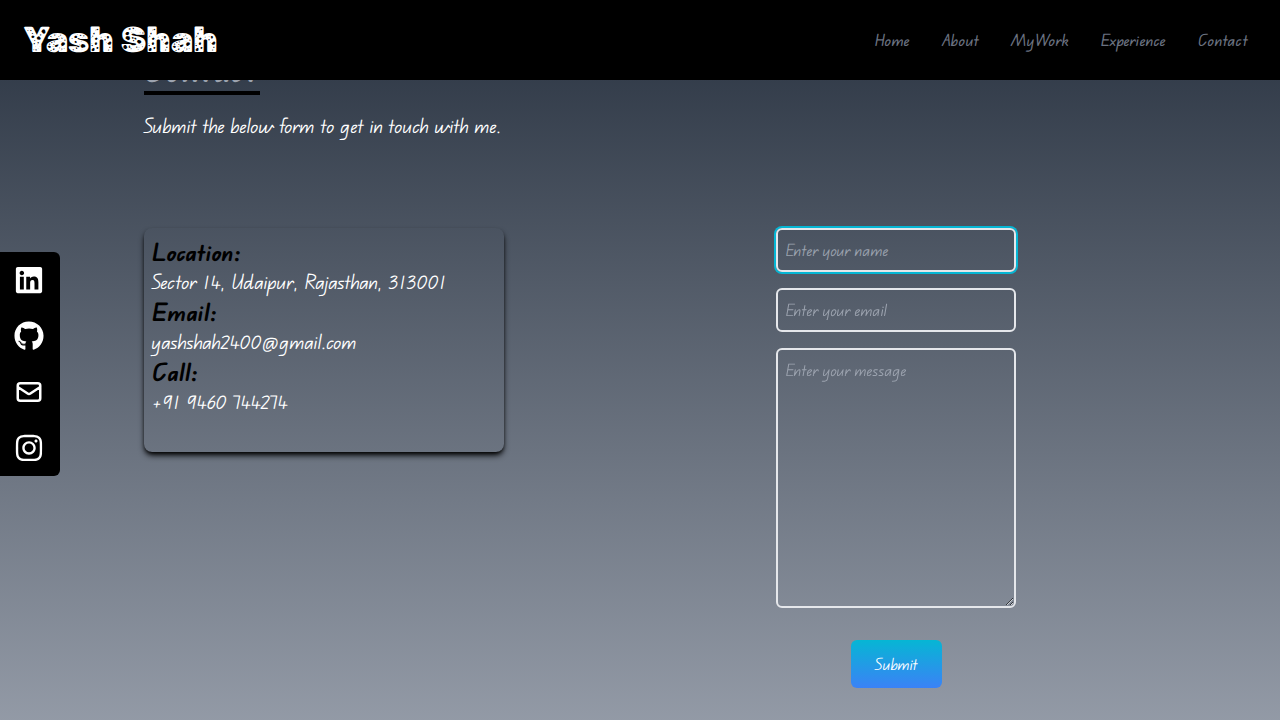
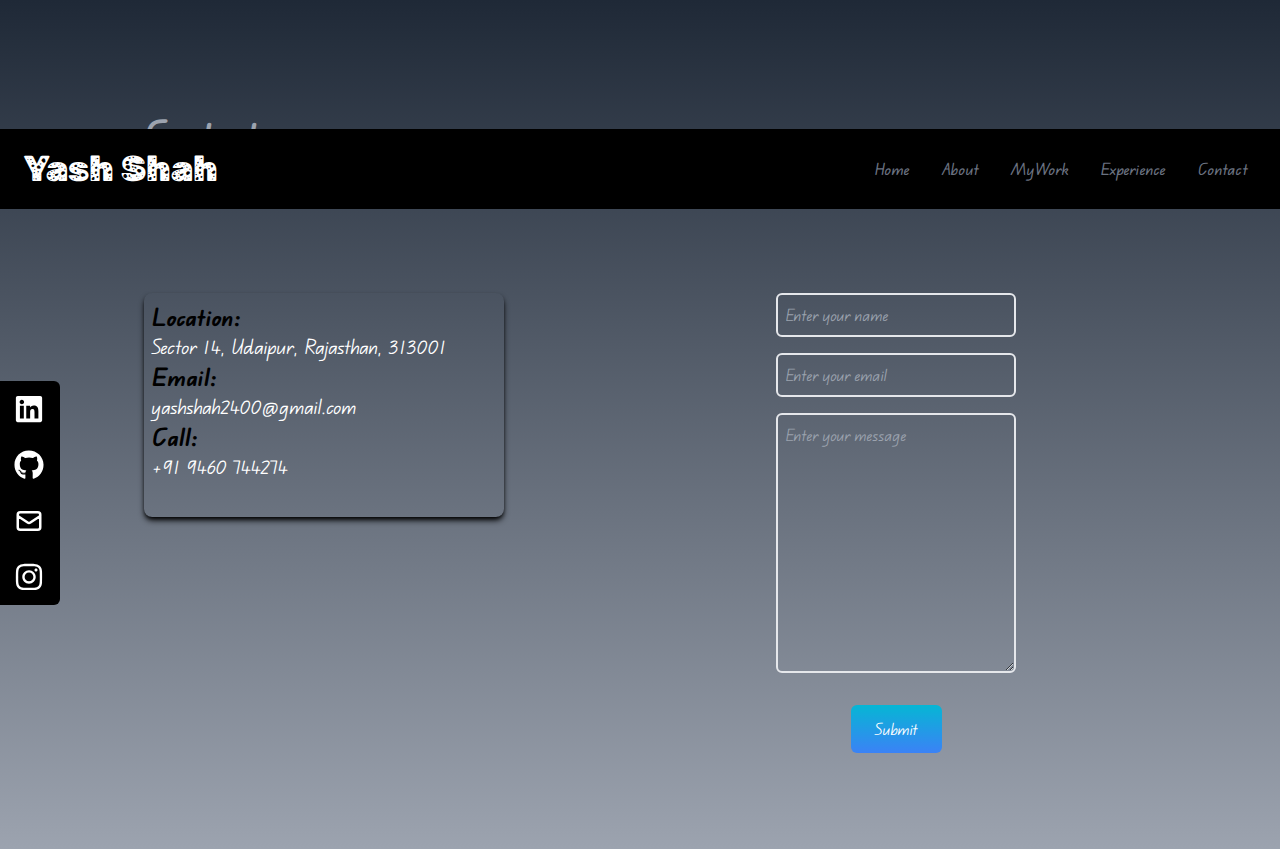
feat: lazy load Contact component to improve initial bundle size
- Implemented lazy loading for `Contact.jsx` using `React.lazy` and `Suspense`.
- Added a fallback loading state consistent with other sections.
- Verified functionality and layout via Playwright screenshot.
- Passed all tests.

diff --git a/src/App.js b/src/App.js
@@ -3,11 +3,11 @@ import NavBar from "./components/NavBar";
 import Home from "./components/Home";
 import SocialLinks from "./components/SocialLinks";
 import About from "./components/About";
-import Contact from "./components/Contact";
 
 // Lazy load heavy components to improve initial load time
 const MyWork = lazy(() => import("./components/MyWork"));
 const Experience = lazy(() => import("./components/Experience"));
+const Contact = lazy(() => import("./components/Contact"));
 
 function App() {
   return (
@@ -21,7 +21,9 @@ function App() {
       <Suspense fallback={<div className="h-screen w-full bg-gray-800 flex justify-center items-center text-white text-3xl">Loading Experience...</div>}>
         <Experience />
       </Suspense>
-      <Contact />
+      <Suspense fallback={<div className="h-screen w-full bg-gray-800 flex justify-center items-center text-white text-3xl">Loading Contact...</div>}>
+        <Contact />
+      </Suspense>
       <SocialLinks />
     </div>
   );

diff --git a/verify_lazy_load.py b/verify_lazy_load.py
@@ -1,0 +1,38 @@
+from playwright.sync_api import sync_playwright
+
+def run():
+    with sync_playwright() as p:
+        browser = p.chromium.launch()
+        page = browser.new_page()
+        try:
+            # Navigate to the app
+            page.goto("http://localhost:3000")
+
+            # Wait for the app to load (Home section is visible)
+            page.wait_for_selector("#home")
+
+            # Scroll to the bottom to trigger Contact load
+            page.evaluate("window.scrollTo(0, document.body.scrollHeight)")
+
+            # Wait for Contact section to be visible
+            # Since it's lazy loaded, it might take a moment
+            # We look for the "Contact" heading
+            contact_header = page.get_by_text("Contact", exact=True)
+            contact_header.wait_for(state="visible", timeout=10000)
+
+            # Take a screenshot of the contact section
+            # We can select the contact section by id
+            contact_section = page.locator("#contact")
+            contact_section.screenshot(path="verification_contact.png")
+
+            print("Verification successful: Contact section loaded.")
+
+        except Exception as e:
+            print(f"Verification failed: {e}")
+            # Take a full page screenshot for debugging
+            page.screenshot(path="verification_error.png")
+        finally:
+            browser.close()
+
+if __name__ == "__main__":
+    run()

diff --git a/.jules/bolt.md b/.jules/bolt.md
@@ -1,0 +1,11 @@
+# Bolt's Journal
+
+## 2024-05-22 - Verification Success
+**Learning:** `Contact` section lazy loads correctly.
+**Action:** The verification screenshot shows the Contact section loaded and styled correctly.
+The fallback was not captured because I waited for the selector, but the fact that it eventually loaded confirms the lazy loading mechanism works (or at least doesn't break anything).
+Tests passed.
+Linting passed.
+Code review was positive.
+
+**Ready to Submit.**
